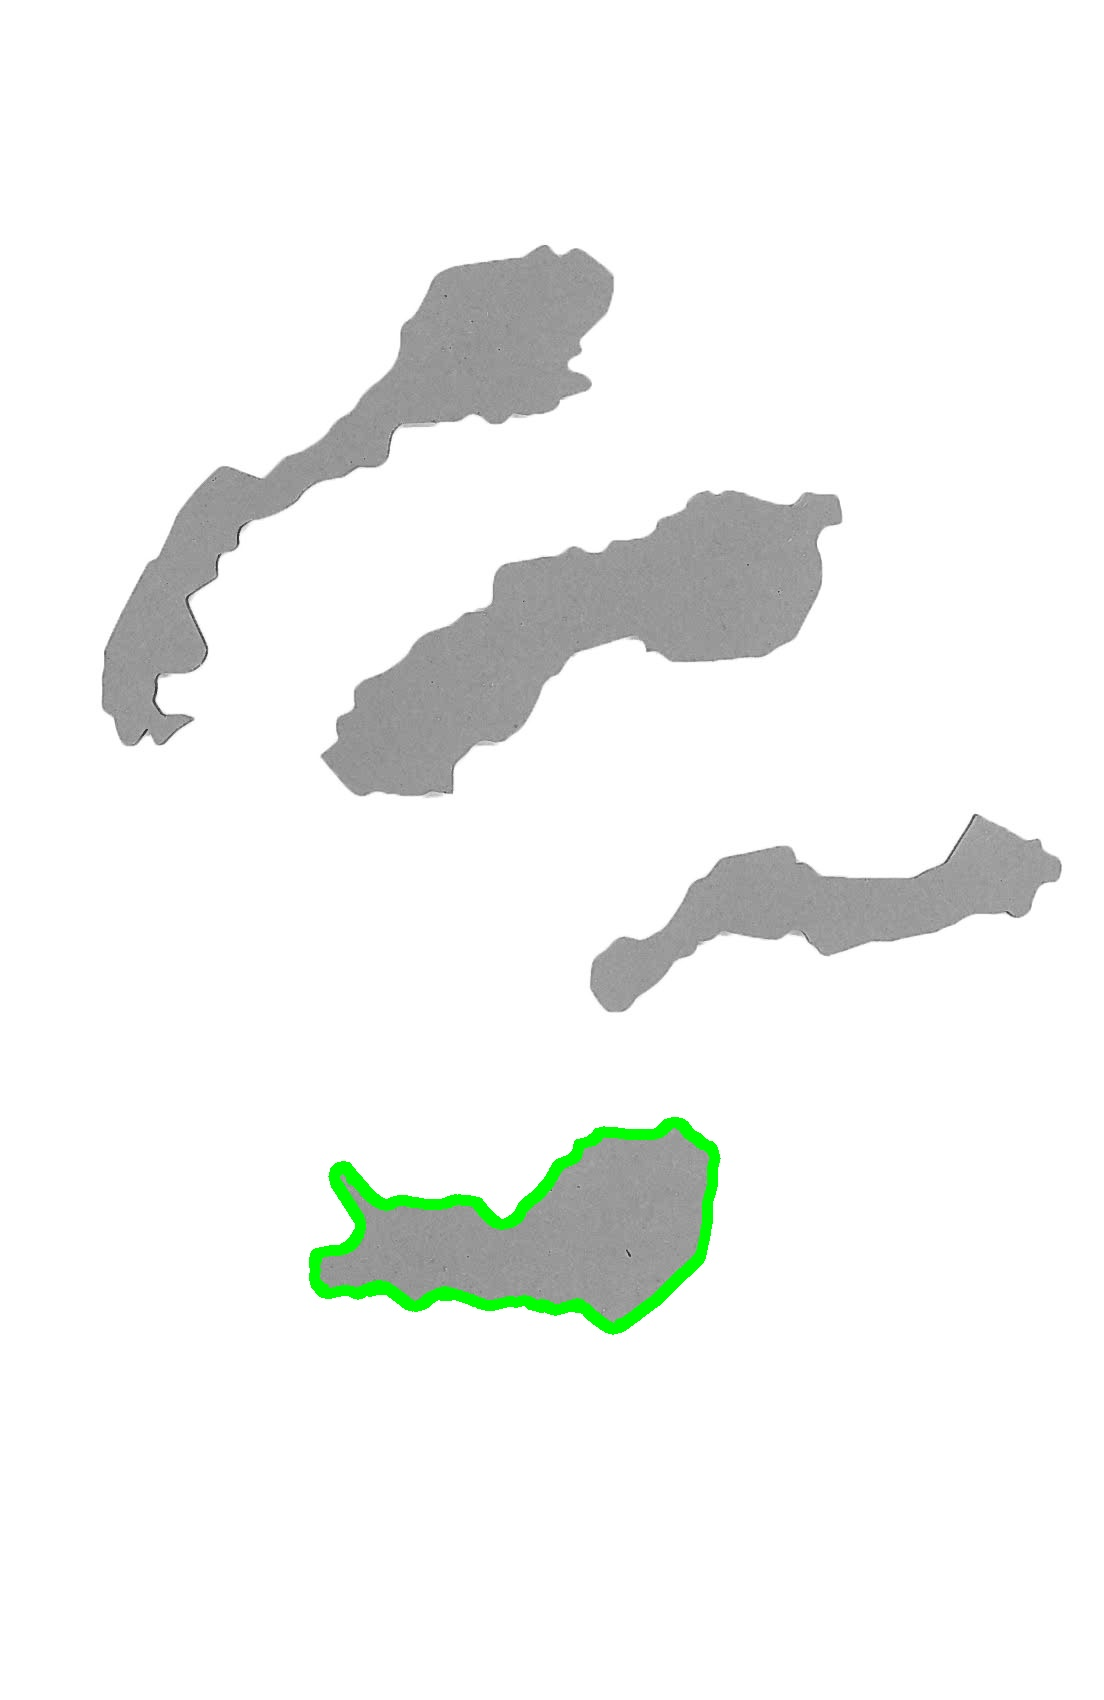
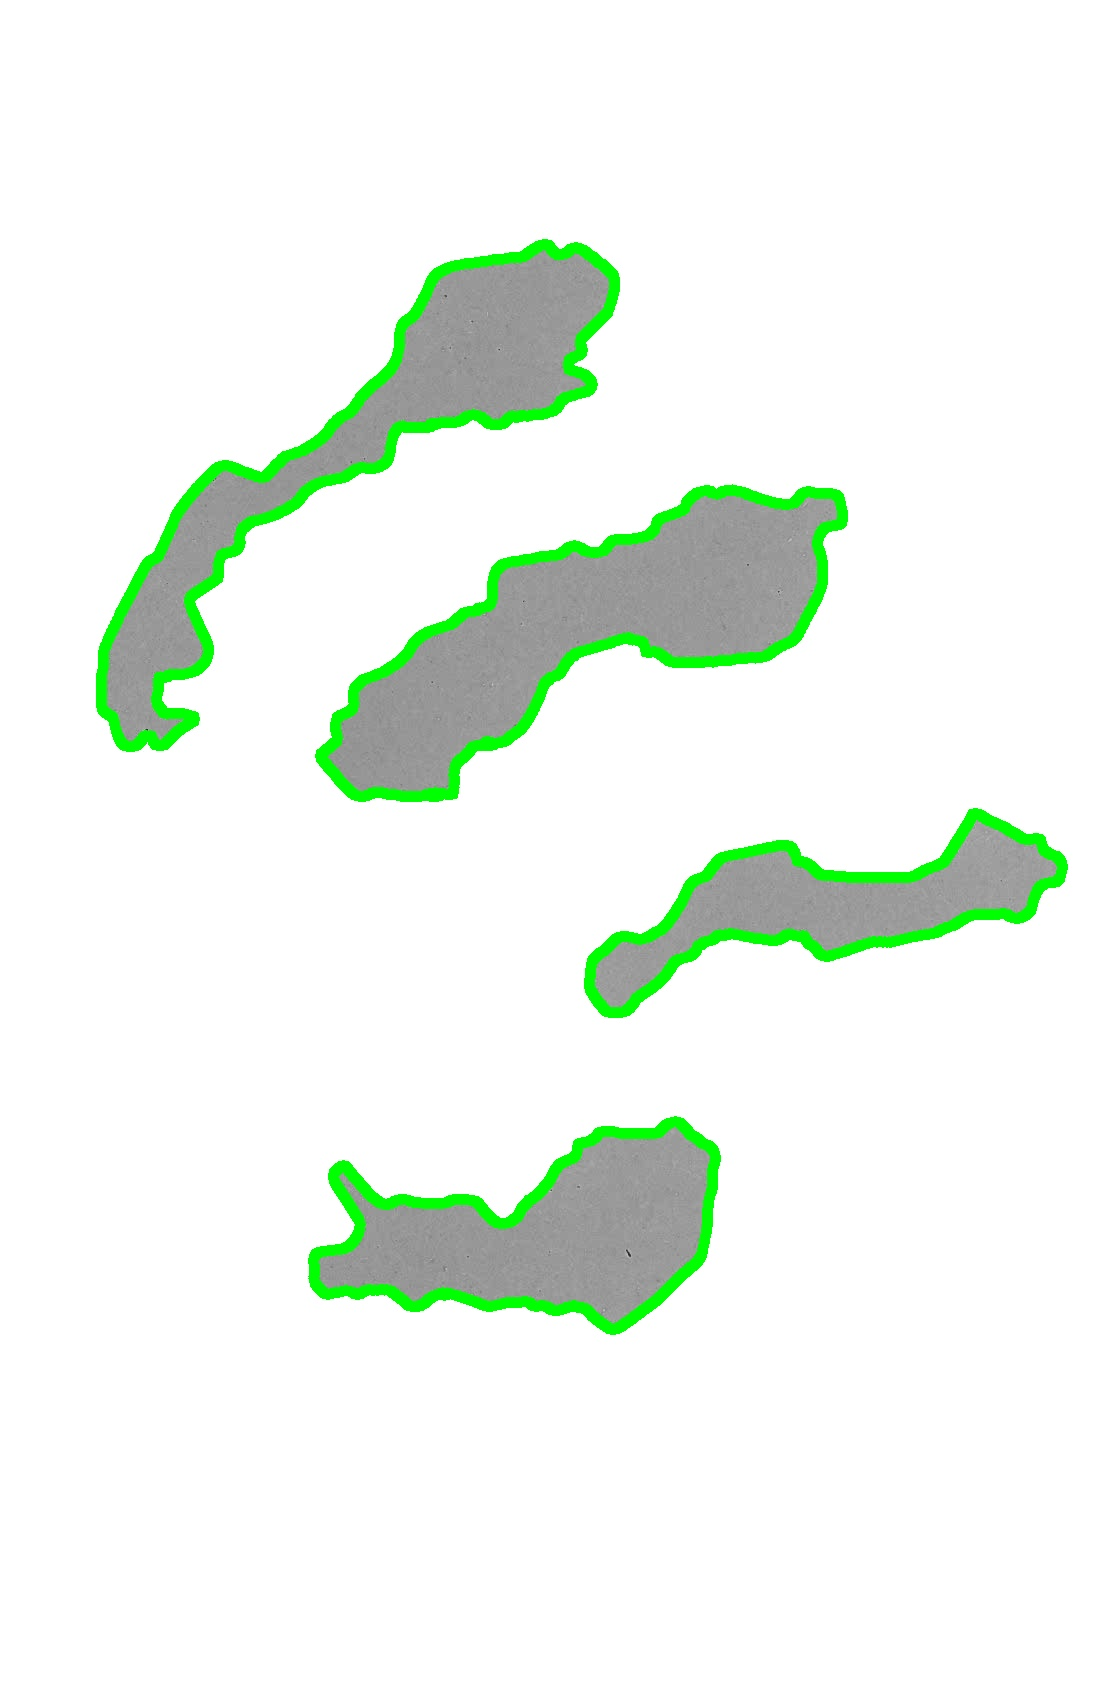
"Picking up multiple edges"
hahaha

diff --git a/Initial_Photo_Feature_Detection/Beginning_Edge_Detection.py b/Initial_Photo_Feature_Detection/Beginning_Edge_Detection.py
@@ -39,7 +39,8 @@ cv2.imwrite('threshold_output.jpg', thresh)
 #CHAIN_APPROX_SIMPLE
 # second argument is how the hierarcys are formed, and isn't too important?? if the hierarchy return isn't used.
 
-cnts = sorted(cnts, key = cv2.contourArea, reverse = True)[:2] # grab only the largest contours, sorted by size (area contained, not number of points)
+cnts = sorted(cnts, key = cv2.contourArea, reverse = True)[1:5] # grab only the largest contours, sorted by size (area contained, not number of points)
+print(cnts.__len__())
 #print cnts
 
 cv2.drawContours(img,cnts,-1,(0,255,0),10) # only for visualization purposes. the mathematical list of points 
